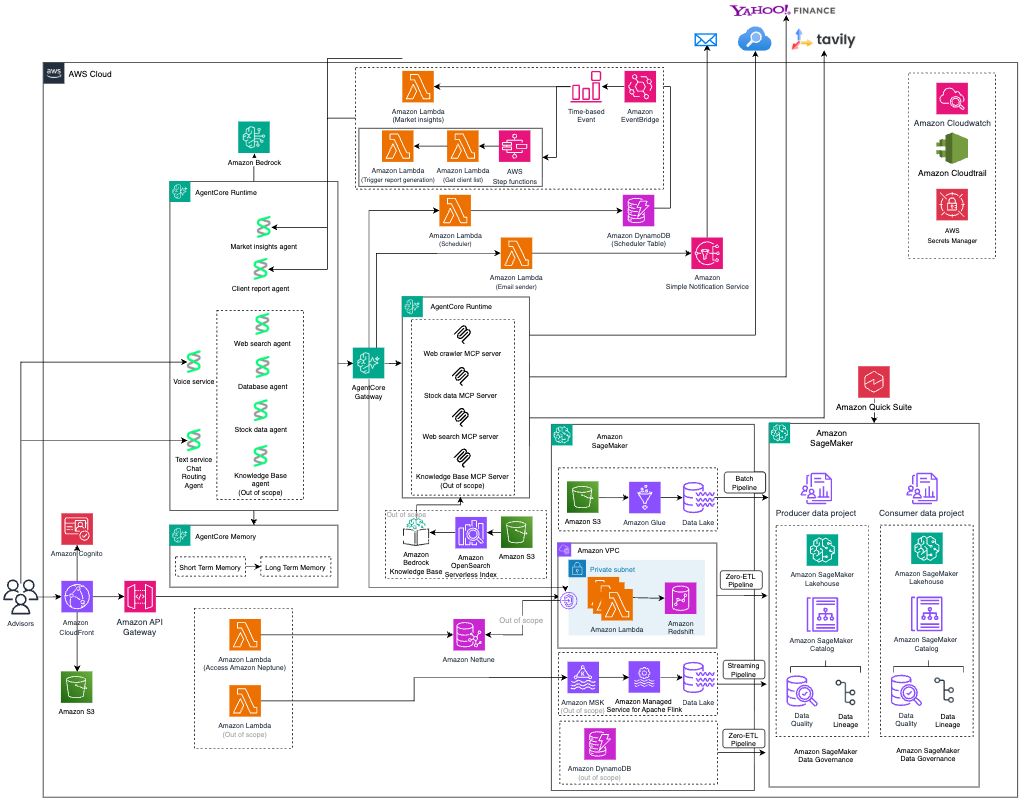
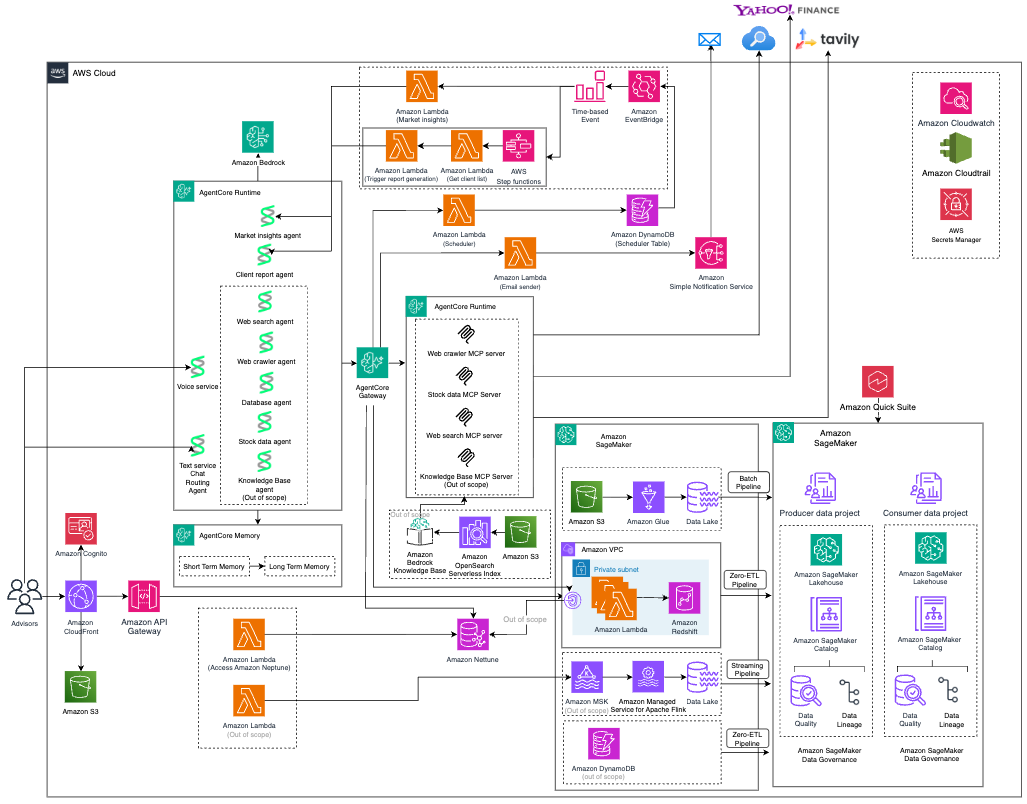
Update architecture diagram and README

Changed region(s): [[0.0, 0.0, 0.9971, 0.9963], [0.8724, 0.0623, 0.9971, 0.3113]]

diff --git a/README.md b/README.md
@@ -321,13 +321,16 @@ scripts/                     # Utility and test scripts
   - Anthropic Claude Sonnet 4.5 (`us.anthropic.claude-sonnet-4-5-20250929-v1:0`)
   - Anthropic Claude Haiku 4.5 (`us.anthropic.claude-haiku-4-5-20251001-v1:0`)
   - Amazon Nova Sonic (`amazon.nova-2-sonic-v1:0`)
-- Create Tavily API key (optional): Visit [Tavily](https://www.tavily.com/) and create an API key. Required only for the web search and market insights features — the core application works without it.
+- Create Tavily API key (optional): Visit [Tavily](https://www.tavily.com/) and create an API key. Required for the web search and market insights features in the smart chat
 
 ### Deployment
+<div style="background-color: #cee8f6ff; padding: 12px; border-left: 4px solid #3407ffff; color: #000000;">
+⚠ A full deployment requires AdministratorAccess permissions on your AWS CLI account.
+</div>
 
 Two CodeBuild projects automate the full deployment. A developer can go from a fresh AWS account to a running application with minimal manual intervention.
 
-#### Step 1: Configure SSM Parameters
+#### **Step 1**: Configure SSM Parameters
 
 ```bash
 ./scripts/setup-ssm-params.sh
@@ -335,7 +338,7 @@ Two CodeBuild projects automate the full deployment. A developer can go from a f
 
 The script prompts for app name, env name, regions, and other settings — with smart defaults for each. It also creates the `Admin` IAM role for Lake Formation if it doesn't exist.
 
-#### Step 2: Deploy CI Infrastructure
+#### **Step 2**: Deploy CI Infrastructure
 
 ```bash
 pnpm install
@@ -346,7 +349,7 @@ pnpm nx deploy @wealth-management-portal/ci-infra
 
 This creates two CodeBuild projects: `wealth-mgmt-platform-deploy` (data platform) and `wealth-mgmt-deploy` (application).
 
-#### Step 3: Upload Source and Deploy Data Platform
+#### **Step 3**: Upload Source and Deploy Data Platform
 
 ```bash
 ./scripts/upload-source.sh
@@ -361,7 +364,7 @@ Takes ~45 minutes. Deploys VPC, Redshift, Glue data lake, SageMaker, Lake Format
 
 > This is the only manual step in the entire deployment. No API exists for IDC password resets.
 
-#### Step 4: Deploy Application
+#### **Step 4**: Deploy Application
 
 ```bash
 ./scripts/trigger-build.sh wealth-mgmt-deploy buildspec-app.yml
@@ -369,9 +372,11 @@ Takes ~45 minutes. Deploys VPC, Redshift, Glue data lake, SageMaker, Lake Format
 
 Takes ~30 minutes. Deploys Lambda functions, API Gateway, Neptune, Cognito, CloudFront, and runs all post-deploy steps (Lake Formation grants, Redshift grants, Neptune data load, test user creation).
 
-#### Step 5: Access the Application
+#### **Step 5**: Access the Application
 
-Open the CloudFront URL from the Step 4 build output and sign in with the test user credentials. You can also retrieve the URL:
+Open the CloudFront URL from the Step 4 build output and sign in with the test user credentials. You can also retrieve the URL by running following command on CLI. You are all set and login to the CloudFront URL and explore the solution. 
+
+You can use the ID and password that you added in the Step 1. If you lost it, you can go to AWS Console and reset password.
 
 ```bash
 aws cloudformation describe-stacks --region ${AWS_REGION:-us-west-2} \
@@ -445,7 +450,7 @@ Auto-discovers all configuration from SSM Parameter Store (region, VPC, subnets,
 
 To edit later, modify `.env` directly — see `.env.example` for all available options.
 
-### Load Runtime Config
+### **Step 1**:Load Runtime Config
 
 Download Cognito and API config for local auth (one-time, or after redeployment):
 
@@ -453,7 +458,7 @@ Download Cognito and API config for local auth (one-time, or after redeployment)
 pnpm nx load:runtime-config @wealth-management-portal/ui
 ```
 
-### Grant Local Permissions
+### **Step 3**: Grant Local Permissions
 
 Grant Lake Formation and Redshift permissions to your current IAM role (one-time, or after role changes):
 
@@ -462,7 +467,7 @@ node scripts/grant-lf-permissions.mjs --self
 node scripts/grant-redshift-permissions.mjs --self
 ```
 
-### Start the Application Locally
+### **Step 3**: Start the Application Locally
 
 Add local Redshift overrides to `.env`:
 
@@ -471,7 +476,7 @@ REDSHIFT_HOST=localhost
 REDSHIFT_PORT=5439
 ```
 
-Then start everything:
+### **Step 4**: Then start everything. It will take ~2 minutes for initial setup and configuration, then http://localhost:4200 will appear for exploring the solution in your local :
 
 ```sh
 pnpm nx serve-local @wealth-management-portal/ui
